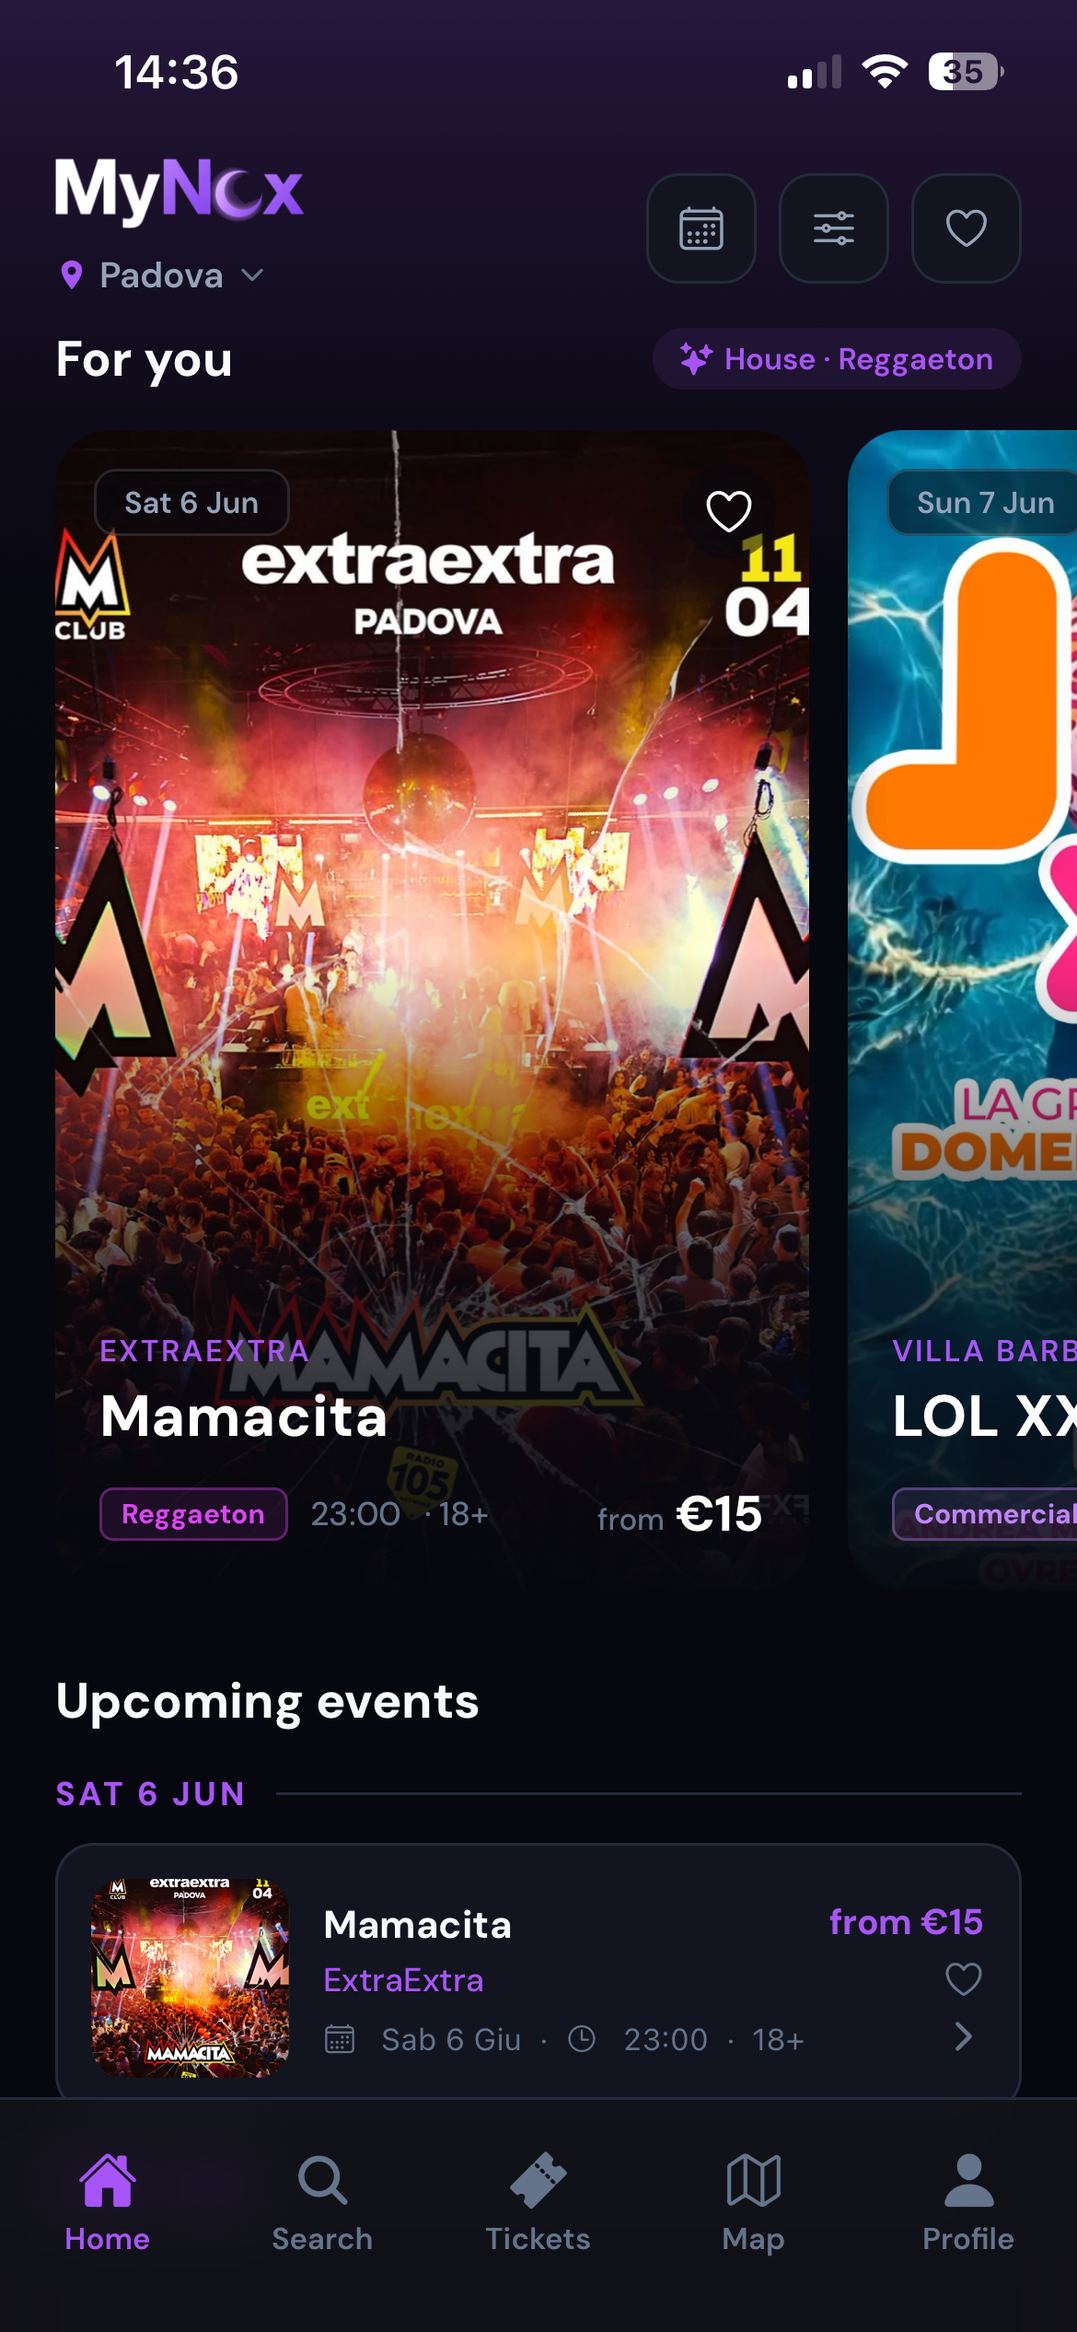
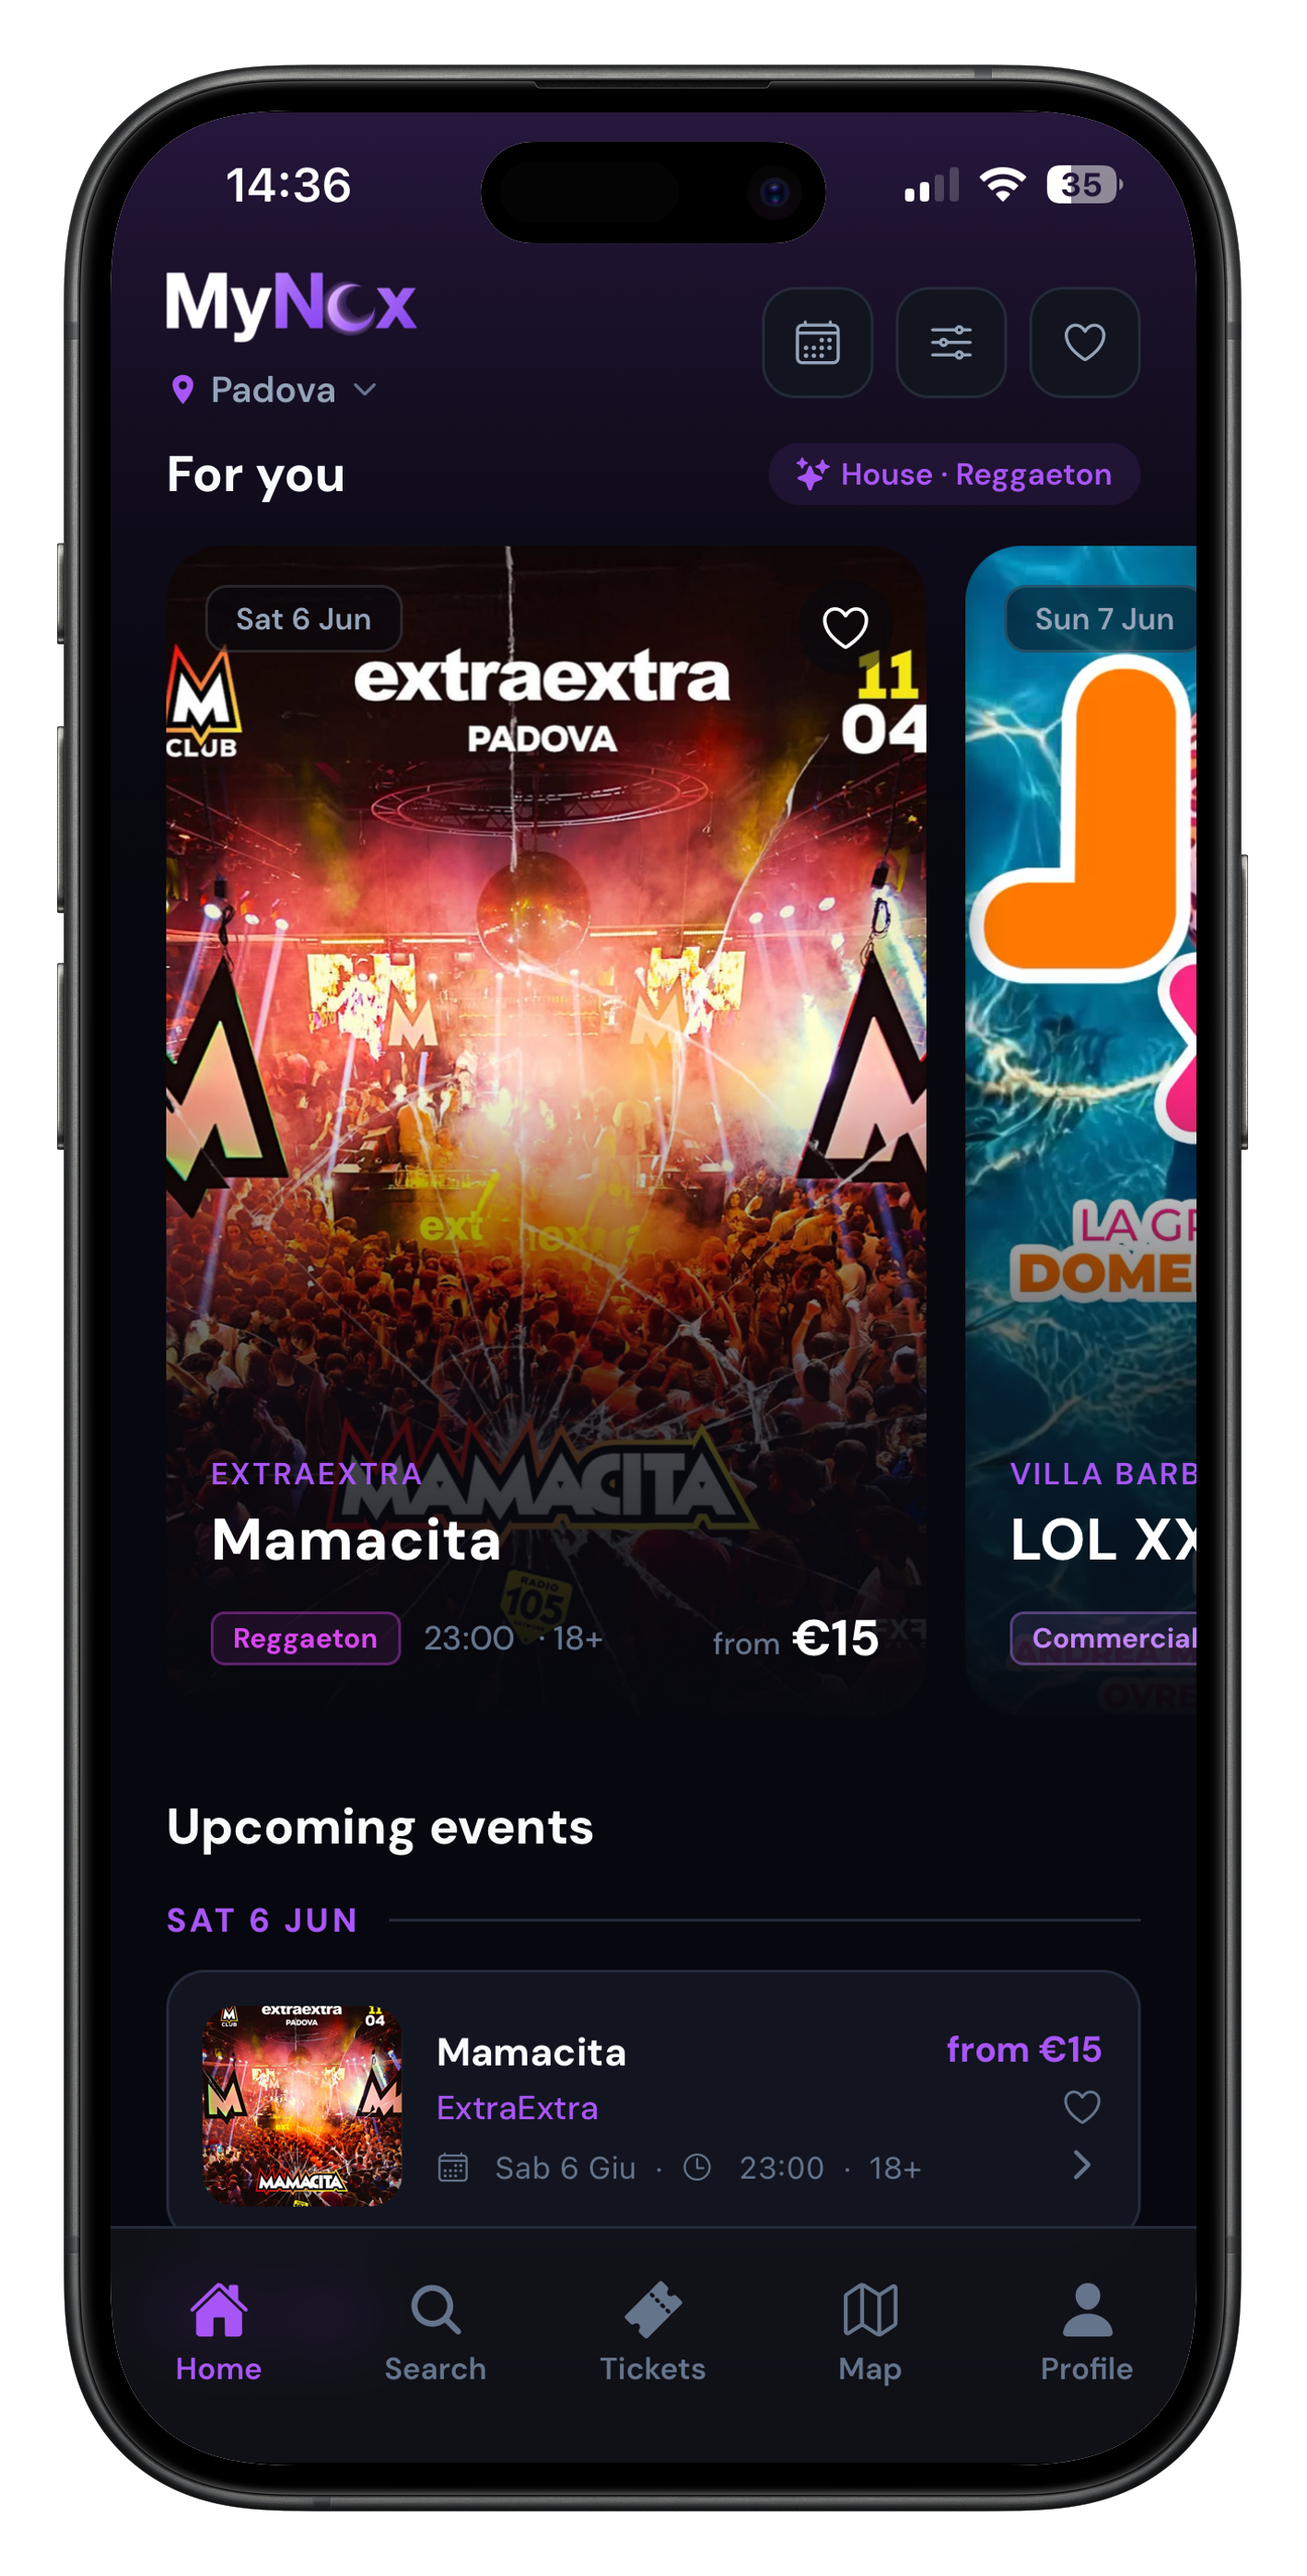
feat: sostituisce mockup con versioni inglese iPhone 15 Pro Black Titanium

diff --git a/MYNOX_APP_STORE_SCREENSHOTS.html b/MYNOX_APP_STORE_SCREENSHOTS.html
@@ -42,35 +42,11 @@
     }
     .logo img { height: 30px; width: auto; }
 
-    /* ─── PHONE FRAME (bezel CSS + Dynamic Island) ─── */
+    /* ─── PHONE MOCKUP (PNG con frame iPhone 15 Pro già incluso) ─── */
     .phone {
       position: absolute;
-      background: #1a1a1e;
-      border-radius: 52px;
-      padding: 14px;
-      border: 1.5px solid rgba(255,255,255,0.12);
-      aspect-ratio: 421 / 880;
-    }
-    .phone-inner {
-      width: 100%; height: 100%;
-      border-radius: 38px;
-      overflow: hidden;
-      position: relative;
-      background: #000;
-    }
-    .phone-inner::before {
-      content: '';
-      position: absolute;
-      top: 10px; left: 50%; transform: translateX(-50%);
-      width: 82px; height: 25px;
-      background: #000;
-      border-radius: 20px;
-      z-index: 10;
-    }
-    .phone img {
-      width: 100%; height: 100%;
-      object-fit: cover; object-position: top;
-      display: block;
+      height: auto;
+      object-fit: contain;
     }
 
     /* ─── COPY ─── */
@@ -142,7 +118,7 @@
       width: 310px;
       bottom: -30px; right: -100px;
       transform: rotate(-13deg);
-      box-shadow: -15px 20px 80px rgba(0,0,0,0.85), 0 0 40px rgba(168,85,247,0.2);
+      filter: drop-shadow(-15px 20px 50px rgba(0,0,0,0.85)) drop-shadow(0 0 40px rgba(168,85,247,0.2));
       z-index: 5;
     }
 
@@ -153,7 +129,7 @@
       width: 310px;
       bottom: -30px; left: -100px;
       transform: rotate(-13deg);
-      box-shadow: 15px 20px 80px rgba(0,0,0,0.85), 0 0 40px rgba(168,85,247,0.2);
+      filter: drop-shadow(15px 20px 50px rgba(0,0,0,0.85)) drop-shadow(0 0 40px rgba(168,85,247,0.2));
       z-index: 5;
     }
 
@@ -164,7 +140,7 @@
       width: 320px;
       bottom: -20px;
       left: 50%; transform: translateX(-50%) rotate(-3deg);
-      box-shadow: 0 30px 100px rgba(0,0,0,0.95), 0 0 50px rgba(168,85,247,0.22);
+      filter: drop-shadow(0 30px 70px rgba(0,0,0,0.95)) drop-shadow(0 0 50px rgba(168,85,247,0.22));
       z-index: 5;
     }
 
@@ -175,7 +151,7 @@
       width: 286px;
       bottom: -15px;
       left: 50%; transform: translateX(-50%) perspective(900px) rotateY(-17deg) rotateX(3deg);
-      box-shadow: 28px 30px 80px rgba(0,0,0,0.9), -10px 0 40px rgba(168,85,247,0.22);
+      filter: drop-shadow(28px 30px 50px rgba(0,0,0,0.9)) drop-shadow(-10px 0 30px rgba(168,85,247,0.22));
       z-index: 5;
     }
 
@@ -186,7 +162,7 @@
       width: 254px;
       bottom: -40px; right: 8px;
       transform: rotate(11deg);
-      box-shadow: 0 20px 60px rgba(0,0,0,0.7);
+      filter: drop-shadow(0 20px 40px rgba(0,0,0,0.7));
       opacity: 0.55;
       z-index: 3;
     }
@@ -194,7 +170,7 @@
       width: 286px;
       bottom: -15px; left: 18px;
       transform: rotate(-7deg);
-      box-shadow: 0 30px 80px rgba(0,0,0,0.9), 0 0 40px rgba(168,85,247,0.25);
+      filter: drop-shadow(0 30px 60px rgba(0,0,0,0.9)) drop-shadow(0 0 40px rgba(168,85,247,0.25));
       z-index: 4;
     }
   </style>
@@ -210,7 +186,7 @@
         <div class="headline"><span>YOUR</span><span>NIGHT,</span></div>
         <div class="subtitle">Discover the best clubs and events near you.</div>
       </div>
-      <div class="phone p1"><div class="phone-inner"><img src="assets/screenshots/en-home.png" alt="Home" /></div></div>
+      <img class="phone p1" src="assets/screenshots/en-home.png" alt="Home" />
     </div>
   </div>
 
@@ -223,7 +199,7 @@
         <div class="headline"><span>YOUR</span><span>CITY.</span></div>
         <div class="subtitle">All the best events in Padova, in one app.</div>
       </div>
-      <div class="phone p2"><div class="phone-inner"><img src="assets/screenshots/en-home.png" alt="Home" /></div></div>
+      <img class="phone p2" src="assets/screenshots/en-home.png" alt="Home" />
     </div>
   </div>
 
@@ -236,7 +212,7 @@
         <div class="headline"><span>SKIP THE</span><span>QUEUE.</span></div>
         <div class="subtitle">Buy your ticket in seconds. Enter without waiting.</div>
       </div>
-      <div class="phone p3"><div class="phone-inner"><img src="assets/screenshots/en-event.png" alt="Event" /></div></div>
+      <img class="phone p3" src="assets/screenshots/en-event.png" alt="Event" />
     </div>
   </div>
 
@@ -249,7 +225,7 @@
         <div class="headline"><span>DONE IN</span><span>3 TAPS.</span></div>
         <div class="subtitle">Instant checkout. Free drink included with every ticket.</div>
       </div>
-      <div class="phone p4"><div class="phone-inner"><img src="assets/screenshots/en-checkout.png" alt="Checkout" /></div></div>
+      <img class="phone p4" src="assets/screenshots/en-checkout.png" alt="Checkout" />
     </div>
   </div>
 
@@ -262,8 +238,8 @@
         <div class="headline"><span>SCAN</span><span>IN.</span></div>
         <div class="subtitle">Show the QR at the door. No printing needed.</div>
       </div>
-      <div class="phone p5-back"><div class="phone-inner"><img src="assets/screenshots/en-event.png" alt="Event back" /></div></div>
-      <div class="phone p5-front"><div class="phone-inner"><img src="assets/screenshots/en-ticket.png" alt="Ticket" /></div></div>
+      <img class="phone p5-back" src="assets/screenshots/en-event.png" alt="Event back" />
+      <img class="phone p5-front" src="assets/screenshots/en-ticket.png" alt="Ticket" />
     </div>
   </div>
 
@@ -275,14 +251,14 @@
         <div class="slide glow-purple-tl glow-bottom" style="background:#07080f; pointer-events:none;">
           <div class="logo"><img src="assets/logo-cropped.png" /></div>
           <div class="copy"><div class="headline"><span>YOUR</span><span>NIGHT,</span></div><div class="subtitle">Discover the best clubs and events near you.</div></div>
-          <div class="phone p1"><div class="phone-inner"><img src="assets/screenshots/en-home.png" /></div></div>
+          <img class="phone p1" src="assets/screenshots/en-home.png" />
         </div>
       </div>
       <div style="flex-shrink:0; transform:scale(0.5); transform-origin:top left; margin-right:calc(-393px * 0.5);">
         <div class="slide glow-purple-tr glow-bottom" style="background:#07080f; pointer-events:none;">
           <div class="logo"><img src="assets/logo-cropped.png" /></div>
           <div class="copy right"><div class="headline"><span>YOUR</span><span>CITY.</span></div><div class="subtitle">All the best events in Padova, in one app.</div></div>
-          <div class="phone p2"><div class="phone-inner"><img src="assets/screenshots/en-home.png" /></div></div>
+          <img class="phone p2" src="assets/screenshots/en-home.png" />
         </div>
       </div>
     </div>
